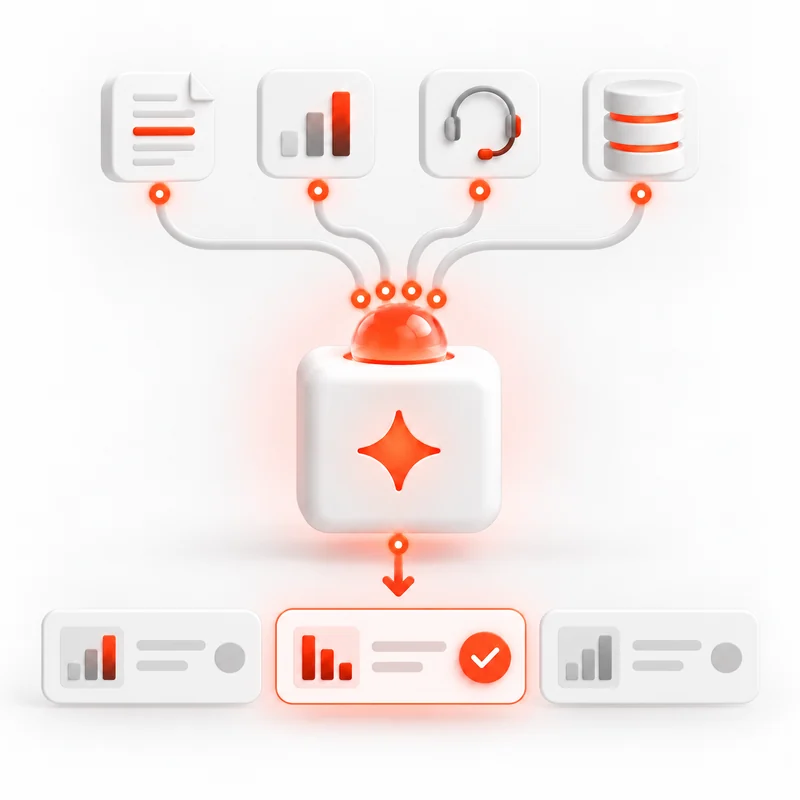
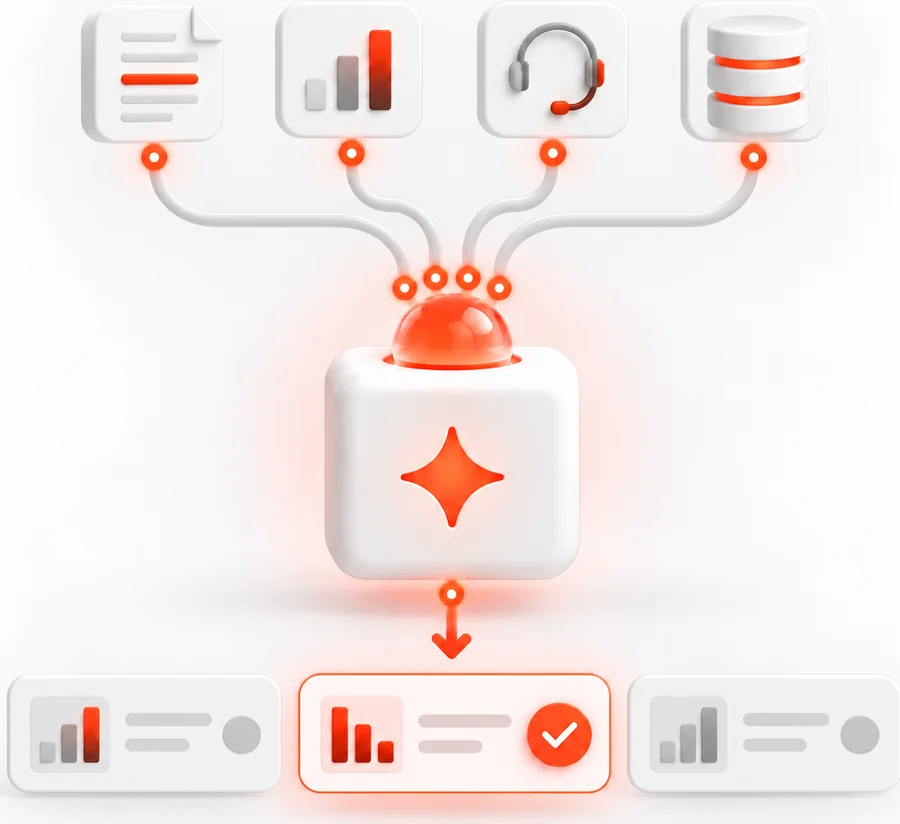
Think step: picture cropped to its content; top level with 01, bottom level with the split bar
Claude-Session: https://claude.ai/code/session_01V2kh93o219NzAituSXsecb

Changed region(s): [[0.0, 0.4375, 1.0, 1.0], [0.0625, 0.0, 0.9062, 0.4688], [0.625, 0.4688, 0.6562, 0.5625]]

diff --git a/css/sections/process.css b/css/sections/process.css
@@ -31,12 +31,12 @@
 .split-lead i b{color:var(--on-brand)}  /* white on --red = 4.1:1 */
 
 /* step with an illustration: text + split bar on the left, picture on the right */
-.step.has-art .step-in{grid-template-columns:minmax(0,1.5fr) minmax(0,1fr);grid-template-areas:"title art" "rows art" "split art";grid-template-rows:auto auto 1fr;row-gap:28px}
+.step.has-art .step-in{grid-template-columns:minmax(0,1.4fr) minmax(0,1fr);grid-template-areas:"title art" "rows art" "split art";grid-template-rows:auto auto 1fr;row-gap:28px}
 .step.has-art .step-title{grid-area:title}
 .step.has-art .step-rows{grid-area:rows}
 .step.has-art .split{grid-area:split;align-self:end}
-.step-art{grid-area:art;margin:0;display:flex;justify-content:center;align-items:center;min-height:0}
-.step-art img{width:100%;max-width:440px;height:auto;object-fit:contain;mix-blend-mode:multiply}  /* drops the picture's off-white backdrop onto the card */
+.step-art{grid-area:art;margin:0;align-self:start}     /* top of the picture = top of '01'; its height sets the card, so the bar's bottom = picture's bottom */
+.step-art img{display:block;width:100%;height:auto;mix-blend-mode:multiply}  /* drops the picture's off-white backdrop onto the card */
 @media (max-width:980px){
   .step.has-art .step-in{grid-template-columns:1fr;grid-template-areas:"title" "rows" "split" "art"}
   .step-art img{height:auto;width:min(100%,320px)}

diff --git a/js/core.js b/js/core.js
@@ -197,7 +197,7 @@
         '</div>' +
         '<div class="split" aria-hidden="true"><span class="split-ai"><b>AI</b><i><b>AI</b></i></span><span class="split-lead"><b>Human expert</b><i><b>Human expert</b></i></span></div>' +
         '<p class="sr-only">In this step AI does the volume and the human expert makes the decision.</p>' +
-        (s.img ? '<figure class="step-art"><img src="' + s.img + '" alt="' + RM.esc(s.alt || '') + '" width="800" height="800" loading="lazy" decoding="async"></figure>' : '') +
+        (s.img ? '<figure class="step-art"><img src="' + s.img + '" alt="' + RM.esc(s.alt || '') + '" width="900" height="824" loading="lazy" decoding="async"></figure>' : '') +
         '</div></li>';
     }).join('');
   })();
